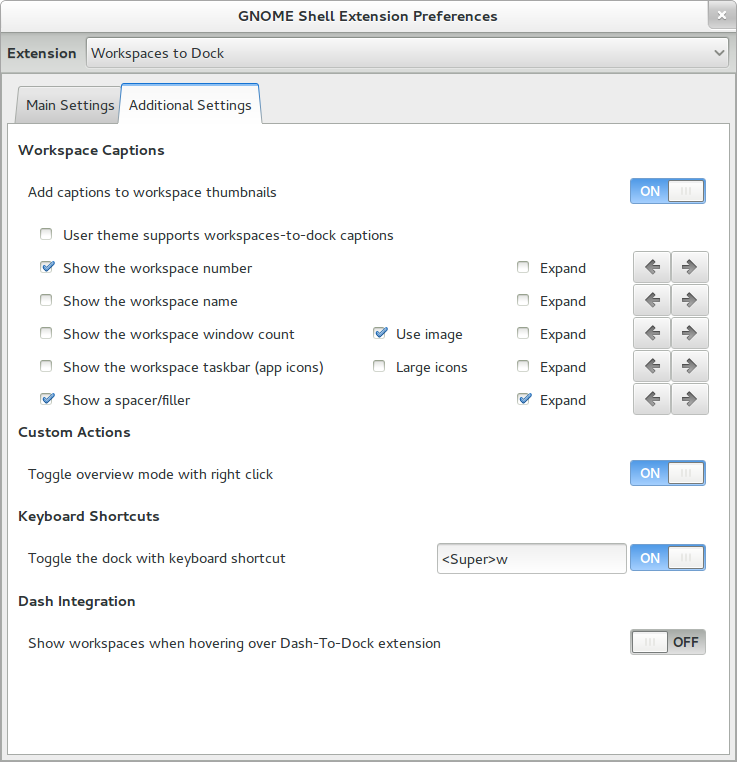
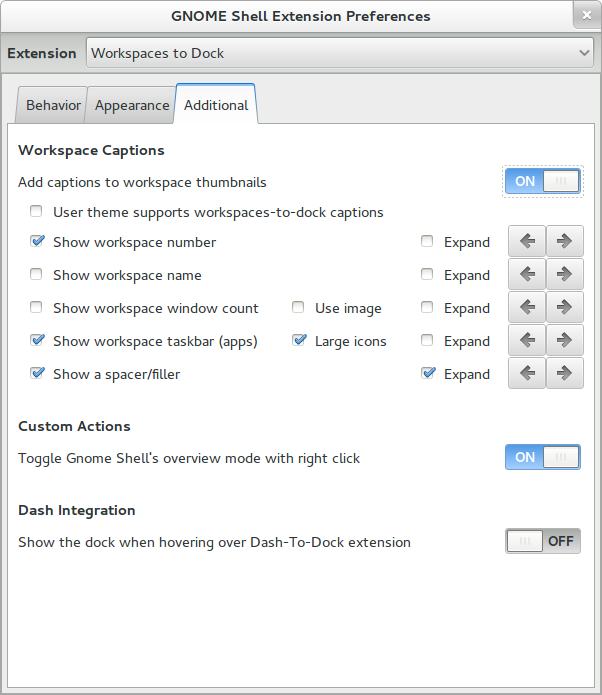
Updated readme and screenshots.

diff --git a/README.md b/README.md
@@ -24,24 +24,14 @@ If you're checking out code from the master branch (downloaded as zip or tar.gz)
 The extension can be configured using `gnome-shell-extension-prefs`. No shell restarts are required.
 
 
-Main Settings:
---------------
+Behavior Settings:
+------------------
 
-![screenshot](https://github.com/passingthru67/workspaces-to-dock/raw/master/Prefs-Main.png)
+![screenshot](https://github.com/passingthru67/workspaces-to-dock/raw/master/Prefs-Behavior.png)
 
-- **Behavior:**
+- **Visibility:**
 
     **Dock is fixed and always visible** - The dock remains visible at all times.
-
-    **Autohide** - When enabled, the dock shows when the mouse touches the right edge of screen. When disabled, the dock remains hidden unless the intellihide option is on or overview mode is entered.
-
-    **Intellihide** - When enabled, the dock remains visible but hides itself when a window touches it. When disabled, dock remains hidden unless the autohide option is on or overview mode is entered.
-
-    **Dodge all windows** - Intellihide option to dodge all windows.
-
-    **Dodge all instances of focused app** - If multiple instances of the focused application are opened, all windows of that app are dodged.
-
-    **Dodge only top instance of focused app** - If multiple instances of the focused application are opened, only the top instance window is dodged.
 
     **Animation time** - The time it takes the dock to slide from hidden to visible state and vise versa.
 
@@ -49,15 +39,33 @@ Main Settings:
 
     **Hide delay** - The time delayed before sliding the dock to the hidden state.
 
-    **Leave dock edge visible when slid out** - Option to leave the dock edge visible when in the slid out or hidden state. This option makes the dock more easily accessible in dual monitor configurations where the second monitor is to the right.
+    **Leave the dock edge visible when slid out** - Option to leave the dock edge visible when in the slid out or hidden state. This option makes the dock more easily accessible in dual monitor configurations where the second monitor is to the right.
 
-    **Require click to show dock when window maximized** - Require a mouse click (in addition to hovering) to show the dock when the focused window is maximized. This option helps eliminate accidentally triggering the dock when using vertical scroll bars on maximized windows.
+    **Autohide : Show the dock on mouse hover** - When enabled, the dock shows when the mouse touches the right edge of screen. When disabled, the dock remains hidden unless the intellihide option is on or overview mode is entered.
 
-    **Require pressure to show dock** - Require mouse pressure against the screen edge to show the dock. This option helps eliminate accidentally triggering the dock when using vertical scroll bars. It also helps with accessing the dock in multi-monitor configurations where the 2nd monitor is to the right of the dock. Unfortunately, this feature requires Gnome Shell 3.8+ and an XServer installation that implements pressure barriers.
+    **Require click to show the dock when window maximized** - Require a mouse click (in addition to hovering) to show the dock when the focused window is maximized. This option helps eliminate accidentally triggering the dock when using vertical scroll bars on maximized windows.
+
+    **Require pressure to show the dock** - Require mouse pressure against the edge of the screen to show the dock. This option helps eliminate accidentally triggering the dock when using vertical scroll bars. It also helps with accessing the dock in multi-monitor configurations where the 2nd monitor is to the right of the dock. Unfortunately, this feature requires Gnome Shell 3.8+ and an XServer installation that implements pressure barriers.
 
     NOTE: In multi-monitor configurations where the 2nd monitor is to the right of the workspaces dock, the dock will have to be showing before the pressure barrier is removed and the mouse pointer released to access the 2nd monitor. This will create a slight hesitation as the mouse must wait for the dock to show. To elliminate this issue, you may show the dock using the keyboard shortcut Super + w, or by entering Gnome Shell's overview mode prior to attempting to access the 2nd monitor.
 
     **Pressure threshold** - The amount of pressure required to activate and show the dock. This setting works in conjunction with 'Require pressure to show dock' above and requires Gnome Shell 3.8+ and an XServer installation that implements pressure barriers.
+
+    **Intellihide : Show the dock unless a window overlaps** - When enabled, the dock remains visible but hides itself when a window touches it. When disabled, dock remains hidden unless the autohide option is on or overview mode is entered.
+
+    **Dodge all windows** - Intellihide option to dodge all windows.
+
+    **Dodge all instances of focused app** - If multiple instances of the focused application are opened, all windows of that app are dodged.
+
+    **Dodge only top instance of focused app** - If multiple instances of the focused application are opened, only the top instance window is dodged.
+
+    **Toggle the dock with a keyboard shortcut** - When enabled, using the keyboard shortcut will toggle the workspaces dock. The default shortcut key is Super + w.
+
+
+Appearance Settings:
+--------------------
+
+![screenshot](https://github.com/passingthru67/workspaces-to-dock/raw/master/Prefs-Appearance.png)
 
 - **Background:**
 
@@ -65,17 +73,19 @@ Main Settings:
 
     **Opacity** - Percentage of transparency desired.
 
-    **Only when in autohide** - Only customize the opacity when the dock is shown by the mouse touching the right edge of the screen. In such cases, the dock is usually shown over other windows so that less transparency is desired.
+    **Only when the dock is shown by autohide** - Only customize the opacity when the dock is shown by the mouse touching the right edge of the screen. In such cases, the dock is usually shown over other windows so that less transparency is desired.
 
 - **Position:**
 
-    **Show the dock on following monitor (if attached)** - Option to position the workspaces dock on a secondary monitor in dual monitor configurations.
+    **Show the dock on the following monitor (if attached)** - Option to position the workspaces dock on a secondary monitor in dual monitor configurations.
+
+- **Height:**
 
     **Extend the height of the dock to fill the screen** - Option to extend the height of the dock to fill the screen.
 
-    **Top Margin** - Allows setting a top margin for the extended dock. The range allowed is 0% to 15% of the screen height.
+    **Top margin** - Allows setting a top margin for the extended dock. The range allowed is 0% to 15% of the screen height.
 
-    **Bottom Margin** - Allows setting a bottom margin for the extended dock. The range allowed is 0% to 15% of the screen height.
+    **Bottom margin** - Allows setting a bottom margin for the extended dock. The range allowed is 0% to 15% of the screen height.
 
 
 Additional Settings:
@@ -93,13 +103,13 @@ Additional Settings:
 
 - **Caption Items:**
 
-    **Show the workspace number** - When enabled, the workspace number is shown in the caption. It can be expanded to take up available space or its position can be adjusted using the arrow buttons.
+    **Show workspace number** - When enabled, the workspace number is shown in the caption. It can be expanded to take up available space or its position can be adjusted using the arrow buttons.
 
-    **Show the workspace name** - When enabled, the workspace name is shown in the caption. It can be expanded to take up available space or its position can be adjusted using the arrow buttons. Workspace names can be edited using the Workspace Indicator extension. We hope to provide this ability in a future release.
+    **Show workspace name** - When enabled, the workspace name is shown in the caption. It can be expanded to take up available space or its position can be adjusted using the arrow buttons. Workspace names can be edited using the Workspace Indicator extension. We hope to provide this ability in a future release.
 
-    **Show the workspace window count** - When enabled, the workspace window count is shown in the caption. It can be expanded to take up available space or its position can be adjusted using the arrow buttons. There is also an option to use images in place of numeric text.
+    **Show workspace window count** - When enabled, the workspace window count is shown in the caption. It can be expanded to take up available space or its position can be adjusted using the arrow buttons. There is also an option to use images in place of numeric text.
 
-    **Show the workspace taskbar (app icons)** - When enabled, the workspace taskbar is shown in the caption. The taskbar displays the icons of applications running on the workspace. It can be expanded to take up available space or its position can be adjusted using the arrow buttons. There is also an option to use large app icons. When the taskbar app icon is left-clicked, the application is brought into focus or minimized if it's already in focus. Right-clicking will bring up the caption popup menu shown above.
+    **Show workspace taskbar (apps)** - When enabled, the workspace taskbar is shown in the caption. The taskbar displays the icons of applications running on the workspace. It can be expanded to take up available space or its position can be adjusted using the arrow buttons. There is also an option to use large app icons. When the taskbar app icon is left-clicked, the application is brought into focus or minimized if it's already in focus. Right-clicking will bring up the caption popup menu shown above.
     
     **Show a spacer/filler** - When enabled, a spacer is inserted in the caption. It can be expanded to take up available space or its position can be adjusted using the arrow buttons.
 
@@ -108,15 +118,11 @@ Below are examples of the workspace (thumbnail) caption in various configuration
 
 - **Custom Actions:**
 
-    **Toggle overview mode with right click** - When enabled, right clicking on the dock will toggle the overview mode.
-
-- **Keyboard Shortcuts:**
-
-    **Toggle the dock with keyboard shortcut** - When enabled, using a custom keyboard shortcut will toggle the workspaces dock. The default shortcut key is Super + w.
+    **Toggle Gnome Shell's overview mode with right click** - When enabled, right clicking on the dock will toggle the overview mode.
 
 - **Dash Integration:**
 
-    **Show workspaces when hovering over Dash-To-Dock extension** - When enabled, hovering the mouse over the Dash-To-Dock extension will cause the workspaces dock to show. This feature is extremely useful in cases where your workspaces dock is hidden and you want to open a new app from the dash. Rather than going into overview just to see your workspaces, hover over the dash-to-dock extension. The workspaces dock will show to the right. Use the dash-to-dock scroll to go to the appropriate workspace.
+    **Show the dock when hovering over Dash-To-Dock extension** - When enabled, hovering the mouse over the Dash-To-Dock extension will cause the workspaces dock to show. This feature is extremely useful in cases where your workspaces dock is hidden and you want to open a new app from the dash. Rather than going into overview just to see your workspaces, hover over the dash-to-dock extension. The workspaces dock will show to the right. Use the dash-to-dock scroll to go to the appropriate workspace.
 
 
 Workspace Caption Theming:
@@ -133,7 +139,6 @@ Features Planned:
 -----------------
 - Editing the workspace caption name.
 - Favorites panel.
-- RTL support.
 
 
 Known Issues:
@@ -177,6 +182,7 @@ Change Log:
 - RTL support added
 - Option to require mouse pressure to activate and show dock (feature)
 - Ability to use keyboard shortcut to toggle dock (feature)
+- Redesigned preferences window
 - Bug fixes
 
 **version 11 (Apr 19, 2013)**
